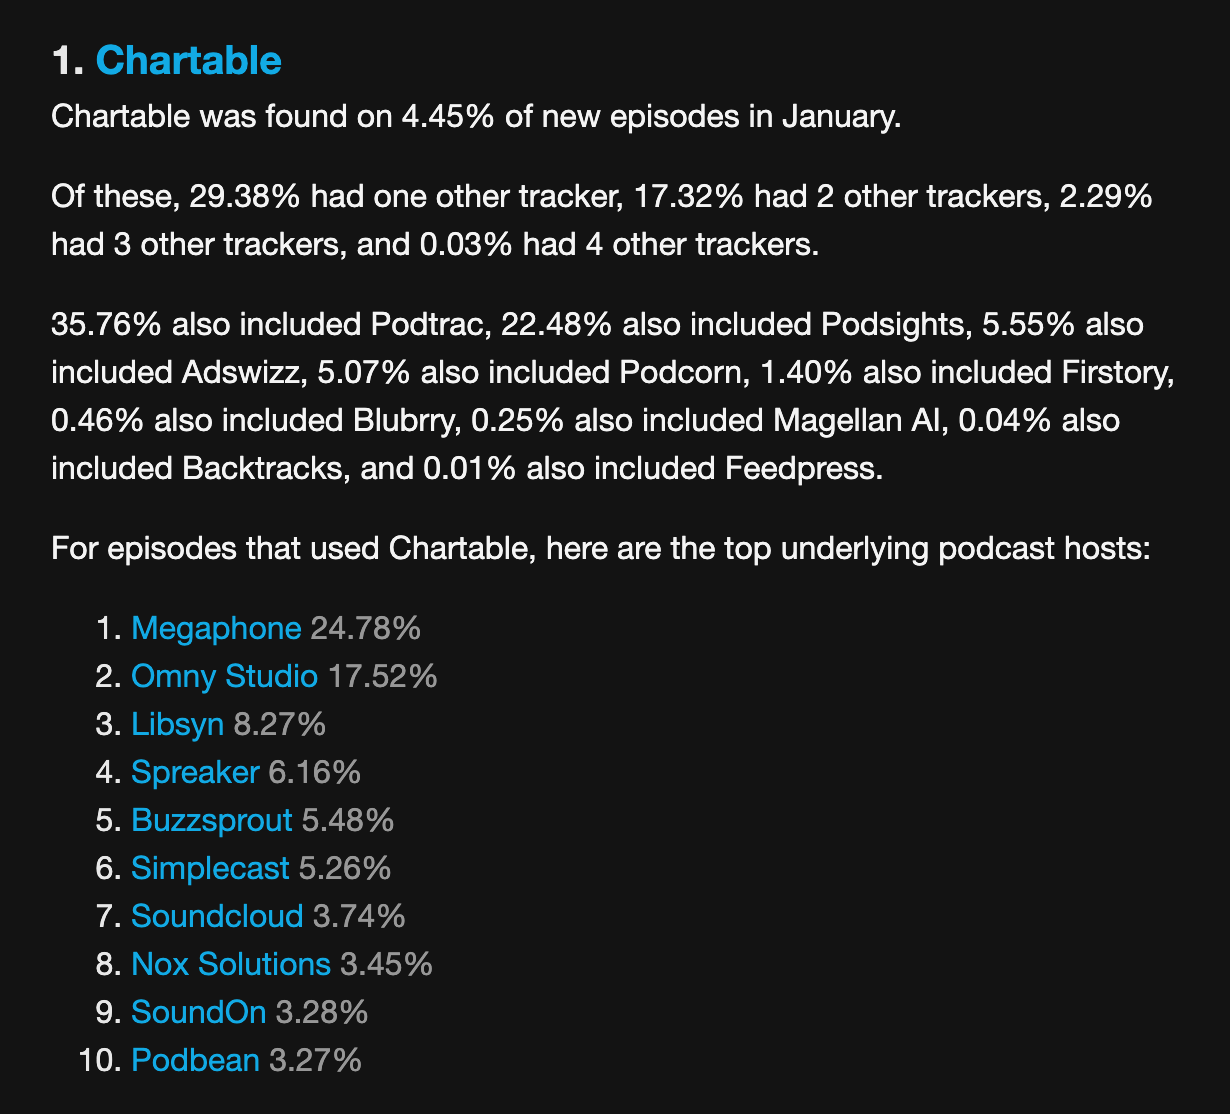
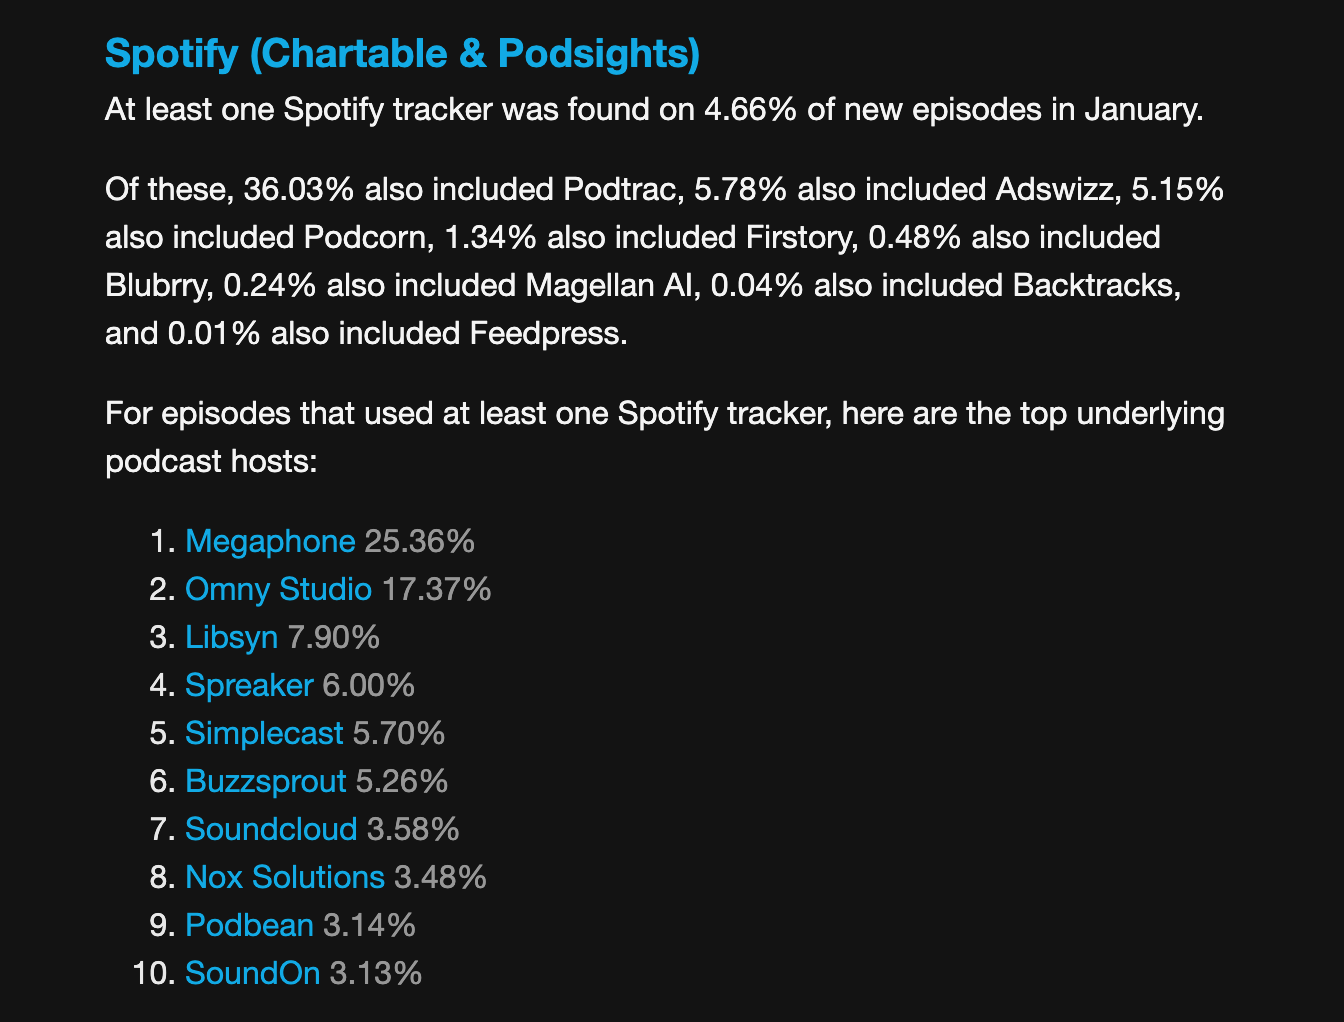
Added new breakdowns to the tracker post for overall, and trackers now owned by Spotify.

Changed region(s): [[0.0309, 0.1517, 0.9577, 0.9706], [0.0309, 0.0303, 0.8959, 0.1213]]

diff --git a/content/posts/podcast-trackers-by-episode-share.md b/content/posts/podcast-trackers-by-episode-share.md
@@ -4,8 +4,8 @@ description: "Ranked list of podcast trackers (third-party analytics services), 
 slug: "podcast-trackers-by-episode-share"
 images:
 - trackers-2022-01.png
-date: 2022-02-08T16:30:00-06:00
-lastmod: 2022-02-08T16:30:00-06:00
+date: 2022-02-19T9:14:00-06:00
+lastmod: 2022-02-19T9:14:00-06:00
 draft: false
 ---
 
@@ -40,12 +40,52 @@ such as {{< a "https://www.tritondigital.com/solutions/audience-measurement" "Tr
 directly from partner hosts. Like first-party podcast host analytics, the reach of these services is not measurable in a public
 way, and thus not included in this analysis.*
 
-Below is the ranking of podcast analytics services ordered by new episodes published during 
-the month of January 2022.
+---
+
+### Overall
+
+At least one tracker was found on 12.16% of new episodes in January.
+
+For episodes that used at least one tracker, here are the top underlying podcast hosts:
+
+1. {{< a "https://www.buzzsprout.com/" "Buzzsprout" >}} {{< span "weak" "12.68%" >}}
+2. {{< a "https://www.megaphone.fm/" "Megaphone" >}} {{< span "weak" "11.54%" >}}
+3. {{< a "https://www.blubrry.com/" "Blubrry" >}} {{< span "weak" "10.00%" >}}
+4. {{< a "https://omnystudio.com/learn" "Omny Studio" >}} {{< span "weak" "8.29%" >}}
+5. {{< a "https://www.spreaker.com/" "Spreaker" >}} {{< span "weak" "7.77%" >}}
+6. {{< a "https://www.libsyn.com/" "Libsyn" >}} {{< span "weak" "4.91%" >}}
+7. {{< a "https://simplecast.com/" "Simplecast" >}} {{< span "weak" "4.89%" >}}
+8. {{< a "https://soundcloud.com/stream" "Soundcloud" >}} {{< span "weak" "4.45%" >}}
+9. {{< a "https://analytics.podtrac.com/" "Podtrac" >}} {{< span "weak" "3.66%" >}}
+10. {{< a "https://futurimedia.com/" "Futuri Media" >}} {{< span "weak" "2.60%" >}}
+---
+
+### [Spotify (Chartable & Podsights)](https://newsroom.spotify.com/2022-02-16/spotify-acquires-podsights-and-chartable-to-advance-podcast-measurement-for-advertisers-and-insights-for-publishers/)
+
+At least one Spotify tracker was found on 4.66% of new episodes in January.
+
+Of these, 36.03% also included Podtrac, 5.78% also included Adswizz, 5.15% also included Podcorn, 1.34% also included Firstory, 0.48% also included Blubrry, 0.24% also included Magellan AI, 0.04% also included Backtracks, and 0.01% also included Feedpress.
+
+For episodes that used at least one Spotify tracker, here are the top underlying podcast hosts:
+
+1. {{< a "https://www.megaphone.fm/" "Megaphone" >}} {{< span "weak" "25.36%" >}}
+2. {{< a "https://omnystudio.com/learn" "Omny Studio" >}} {{< span "weak" "17.37%" >}}
+3. {{< a "https://www.libsyn.com/" "Libsyn" >}} {{< span "weak" "7.90%" >}}
+4. {{< a "https://www.spreaker.com/" "Spreaker" >}} {{< span "weak" "6.00%" >}}
+5. {{< a "https://simplecast.com/" "Simplecast" >}} {{< span "weak" "5.70%" >}}
+6. {{< a "https://www.buzzsprout.com/" "Buzzsprout" >}} {{< span "weak" "5.26%" >}}
+7. {{< a "https://soundcloud.com/stream" "Soundcloud" >}} {{< span "weak" "3.58%" >}}
+8. {{< a "https://noxsolutions.com/podcasting" "Nox Solutions" >}} {{< span "weak" "3.48%" >}}
+9. {{< a "https://www.podbean.com/" "Podbean" >}} {{< span "weak" "3.14%" >}}
+10. {{< a "https://www.soundon.fm/" "SoundOn" >}} {{< span "weak" "3.13%" >}}
+---
+### Individual Service Rankings
+
+And now, the full list of individual podcast analytics services ordered by new episodes published during the month of January 2022.
 
 ---
 
-### 1. [Chartable](https://chartable.com/)
+### 1. [Chartable by Spotify](https://chartable.com/)
 
 Chartable was found on 4.45% of new episodes in January.
 
@@ -155,7 +195,7 @@ For episodes that used Adswizz, here are the top underlying podcast hosts:
 10. {{< a "https://www.washingtonpost.com/" "The Washington Post" >}} {{< span "weak" "0.34%" >}}
 ---
 
-### 6. [Podsights](https://podsights.com/)
+### 6. [Podsights by Spotify](https://podsights.com/)
 
 Podsights was found on 1.21% of new episodes in January.
 
@@ -291,6 +331,8 @@ And thanks to the [Open Podcast Analytics Working Group](https://github.com/opaw
 We've incorporated these patterns along with some of our own to come up with the host and analytics service identification and metadata for this ranking.
 
 ---
+*Updated 2022-02-19, added new overall breakdowns of how many new episodes use at least one tracker, and how many use at least one Spotify-owned tracker.*
+
 *Updated 2022-02-08, with data for the month of January 2022.*
 
 *Updated 2022-01-10, was missing data for December 31, now fixed.*

diff --git a/content/_index.md b/content/_index.md
@@ -1,16 +1,16 @@
 ---
 title: "livewire.io: Podcasting ▷ Forward"
 date: 2021-03-30T16:01:41-05:00
-lastmod: 2022-02-10T20:10:00-06:00
+lastmod: 2022-02-19T9:14:00-06:00
 ---
 
 {{< p index-subhead "Podcasting ▷ Forward" >}}
 
 ---
 
-New data: [Podcast CDN Rankings by Episode Share (January 2021)](/podcast-cdns-by-episode-share)
+Updated / Spotify acquisitions: [Podcast Tracker Rankings by Episode Share (January 2022)](/podcast-trackers-by-episode-share)
 
-New data: [Podcast Tracker Rankings by Episode Share (January 2022)](/podcast-trackers-by-episode-share)
+New data: [Podcast CDN Rankings by Episode Share (January 2021)](/podcast-cdns-by-episode-share)
 
 New data: [Podcast Host Rankings by Episode Share (January 2022)](/podcast-hosts-by-episode-share)
 
